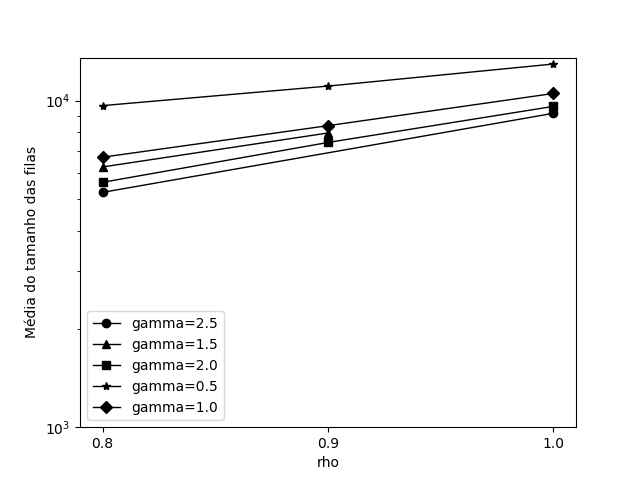
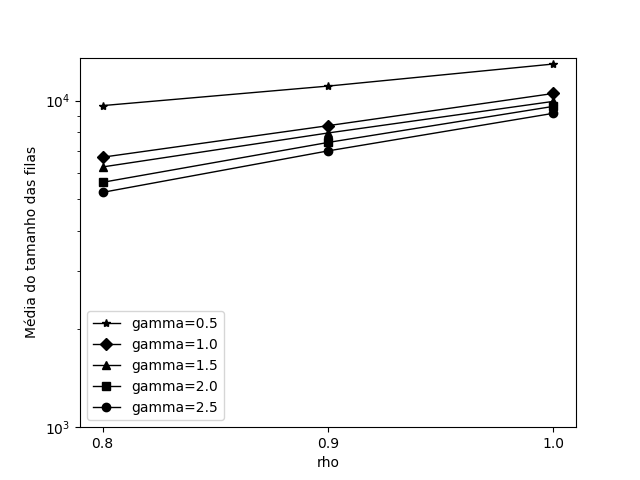
figures :)

diff --git a/resultsMathAndPlot.py b/resultsMathAndPlot.py
@@ -6,6 +6,7 @@ import collections
 #import plotly.plotly as py
 #from plotly.graph_objs import *
 import matplotlib.pyplot as plt
+import operator
 
 n=16
 namedTuple = "mean, rho, algo, graph, beta, gamma, ArrSum, NumEdges, MaxScheds, Iter"
@@ -28,7 +29,7 @@ gammaL=[]
 floatIdxs = range(42)[:2] + range(42)[4:]
 #([round(queue/n,2), r, algorithm, name+str(nameIdx), beta, gamma, arrivalSum, numEdges, numMaxSched, testesIt] + queuesList + maa.schedSizeFrequency))
 print floatIdxs
-files , resultFileIdx= "Rfiles", ['_All', '_3', '_4', '_5', '_6','_7']
+files , resultFileIdx= "Rfiles", ['2_','_All', '_3', '_4', '_5', '_6','_7']
 #files , resultFileIdx = "RFfiles", ['F_','F_1']
 for rfi in resultFileIdx:
   with open('./resultados/gitignoreR{}.csv'.format(rfi), 'r') as csvFile:
@@ -38,6 +39,7 @@ for rfi in resultFileIdx:
     for row in reader:
 
       #convert string to float
+      #print len(row), row
       for i in floatIdxs:
         row[i] = float(row[i])
       #trimming string
@@ -331,7 +333,7 @@ def multiLinePlot(figname, aliasLegDict, data, variationParam, ordenationParam, 
   for d in mData:
     if d.mean[0] > -1:
       if (variationRestrictionList == "Todos" or getattr(d,varParam) in variationRestrictionList) and (ordenationRestricionList == "Todos" or getattr(d,oParam) in ordenationRestricionList):
-        printList.append((round(d.mean[0]), "beta=",d.beta, "rho=",d.rho, "gamma=",d.gamma))
+        #printList.append((round(d.mean[0]), "beta=",d.beta, "rho=",d.rho, "gamma=",d.gamma))
         #print "===========", round(d.mean[0],3), "beta=",d.beta, "rho=",d.rho, "gamma=",d.gamma
         #print "============================================"
         if getattr(d,restrictionParam,"") in restrictionValueList and getattr(d,restrictionParam2,"") in restrictionValueList2:
@@ -346,11 +348,11 @@ def multiLinePlot(figname, aliasLegDict, data, variationParam, ordenationParam, 
   printList.sort(key=lambda t: t[6])
   printList.sort(key=lambda t: t[4])
   printList.sort(key=lambda t: t[2])
-  for t in printList:
-    print t
+  #for t in printList:
+    #print t
   for i in dataD.keys():
     dataDVal = dataD[i]   
-    print "1",i,dataDVal   
+    #print "1",i,dataDVal   
     ordes=set(map(lambda pair: pair[0], dataDVal.valuePairs))
     newpairs = [(orde,[pair[1] for pair in dataDVal.valuePairs if pair[0]==orde]) for orde in ordes]
     meanvaluePairs = []
@@ -370,7 +372,7 @@ def multiLinePlot(figname, aliasLegDict, data, variationParam, ordenationParam, 
   xMaxLen = []
   for i in dataD.keys():
     dataDVal = dataD[i]
-    print "2",i,dataDVal
+    #print "2",i,dataDVal
     dataDVal.valuePairs.sort(key=lambda valPair: valPair[0])
     x, y = zip(*dataDVal.valuePairs)
     if len(x) > len(xMaxLen): xMaxLen=x[:]
@@ -381,7 +383,11 @@ def multiLinePlot(figname, aliasLegDict, data, variationParam, ordenationParam, 
     #legendHandler.append(leg)
     mLIdx += 1
 
-  plt.legend()
+  handles, labels = plt.axes().get_legend_handles_labels()
+  hl = sorted(zip(handles, labels),
+            key=operator.itemgetter(1))
+  handles2, labels2 = zip(*hl)
+  plt.legend(handles2, labels2)
   plt.yscale('log')  
   plt.ylabel(u'Média do tamanho das filas')
   plt.xticks(xMaxLen)
@@ -405,6 +411,10 @@ rho03=[0.8, 0.9, 1.0]
 yaxis1 = [10**3, 10**4]
 yaxis2 = [1, 10, 10**2, 10**3, 10**4]
 yaxis3 = [7*10**3, 10**4, 1.5*10**4]
+yaxis4 = [10**3, 10**4, 10**5]
+yaxis5 = [1, 10, 10**2, 10**3]
+yaxis6 = [10**3, 7*10**3]
+yaxis7 = [1, 10, 10**2]
 aliasDict = {"MICE-ICSMAPURE":"MICE-ICSMA",
              "MICEe-TrueCFGDv4": "MICE-GD-EsMAI",
              "MICEe-TrueCFGDv2": "MICE-GD-EsMa",
@@ -423,6 +433,8 @@ aliasDict = {"MICE-ICSMAPURE":"MICE-ICSMA",
              "MICEe-CFv4-UT2": "MICE-EsMAI",
              "MICEe-CFv2-UT2": "MICE-EsMa",
              "CFv2-NoQ-UT2": "EsMa-S/F",
+             "ICSMA-UT" : "ICSMA",
+             "ICSMA-UT2" : "ICSMA",
 }
 #print queueMeanL
 if figName == "Rfiles":
@@ -493,7 +505,8 @@ if figName == "Rfiles":
                            variationRestrictionList=["MICE-ICSMAPURE-UT", "MICEe-TrueCFGDv4-UT", "MICEe-TrueCFGDv2-UT", "MICEe-CFv4-UT", "MICEe-CFv2-UT",  "CFv2-NoQ-UT", "ICSMA-UT"],
                            ordenationRestricionList=rho03,
                            yAxisTicks=yaxis1,
-                           varFileNameAlias="UT")    
+                           varFileNameAlias="UT")
+
     multiLinePlot(figName+"09.2-UT-", aliasDict, queueMeanL,variationParam="algo",
                            ordenationParam="rho",
                            restrictionParam="beta",
@@ -508,13 +521,14 @@ if figName == "Rfiles":
   multiLinePlot(figName+"10-UT2-", aliasDict, queueMeanL,variationParam="algo",
                          ordenationParam="rho",
                          restrictionParam="beta",
-                         restrictionValueList=[1.5],
+                         restrictionValueList=[0.01, 0.1, 1.5],
                          restrictionParam2="gamma", 
-                         restrictionValueList2=[0,2.5], 
+                         restrictionValueList2=[0, 2.5], 
                          variationRestrictionList=["MICE-ICSMAPURE-UT2", "MICEe-TrueCFGDv4-UT2", "MICEe-TrueCFGDv2-UT2", "MICEe-CFv4-UT2", "MICEe-CFv2-UT2",  "CFv2-NoQ-UT2", "ICSMA-UT2"],
                          ordenationRestricionList=rho03,
                          yAxisTicks=yaxis1,
                          varFileNameAlias="UT2")
+
   #MICE-ICSMA-UT variando gamma, fixo beta = 1.0
   multiLinePlot(figName+"11.0-UT-", aliasDict, queueMeanL,variationParam="gamma",
                            ordenationParam="rho",
@@ -563,7 +577,75 @@ if figName == "Rfiles":
                            restrictionValueList=["MICE-ICSMAPURE-UT2"],
                            restrictionParam2="beta", 
                            restrictionValueList2=[1.5],
-                           yAxisTicks=yaxis3)    
+                           yAxisTicks=yaxis3) 
+
+  #MICE-EsMa-UT variando beta,  gamma = 2.5
+  multiLinePlot(figName+"13-UT-", aliasDict, queueMeanL,variationParam="beta",
+                             ordenationParam="rho",
+                             restrictionParam="algo",
+                             restrictionValueList=["MICEe-TrueCFGDv2-UT"],
+                             restrictionParam2="gamma",
+                             restrictionValueList2=[2.5],
+                             yAxisTicks=yaxis1)
+
+  #MICE-EsMa-UT2 variando beta,  gamma = 2.5
+  multiLinePlot(figName+"14-UT2-", aliasDict, queueMeanL,variationParam="beta",
+                             ordenationParam="rho",
+                             restrictionParam="algo",
+                             restrictionValueList=["MICEe-TrueCFGDv2-UT2"],
+                             restrictionParam2="gamma",
+                             restrictionValueList2=[2.5],
+                             yAxisTicks=yaxis1)  
+
+  #MICE-EsMa variando beta,  gamma = 2.5
+  multiLinePlot(figName+"15-", aliasDict, queueMeanL,variationParam="beta",
+                             ordenationParam="rho",
+                             restrictionParam="algo",
+                             restrictionValueList=["MICEe-TrueCFGDv2"],
+                             restrictionParam2="gamma",
+                             restrictionValueList2=[2.5],
+                             yAxisTicks=yaxis7)
+  #MICE-EsMa variando GAMMA,  BETA = 1.5
+  multiLinePlot(figName+"16-", aliasDict, queueMeanL,variationParam="gamma",
+                             ordenationParam="rho",
+                             restrictionParam="algo",
+                             restrictionValueList=["MICEe-TrueCFGDv2"],
+                             restrictionParam2="beta",
+                             restrictionValueList2=[1.5],
+                             yAxisTicks=yaxis7)  
+
+  #MICE-EsMa-UT variando GAMMA,  BETA = 1.5
+  multiLinePlot(figName+"17-UT-", aliasDict, queueMeanL,variationParam="gamma",
+                             ordenationParam="rho",
+                             restrictionParam="algo",
+                             restrictionValueList=["MICEe-TrueCFGDv2-UT"],
+                             restrictionParam2="beta",
+                             restrictionValueList2=[1.5],
+                             yAxisTicks=yaxis6)  
+
+  #MICE-EsMa-UT2 variando GAMMA,  BETA = 1.5
+  multiLinePlot(figName+"18-UT2-", aliasDict, queueMeanL,variationParam="gamma",
+                             ordenationParam="rho",
+                             restrictionParam="algo",
+                             restrictionValueList=["MICEe-TrueCFGDv2-UT2"],
+                             restrictionParam2="beta",
+                             restrictionValueList2=[1.5],
+                             yAxisTicks=yaxis6)  
+
+
+
+
+
+
+
+
+
+
+
+
+
+
+
 
 if figName == "RFfiles":
   #comparação ICSMA e MICE-ICSMA

diff --git a/README.md b/README.md
@@ -1,2 +1,4 @@
-# I-CSMA-Sim
-Simulador I-CSMA
+#MAA-CSMA-Sim
+Simulador de algoritmos de acesso ao meio multiplo.
+
+Simulador desenvolvido para os algoritmos MICE e I-CSMA
